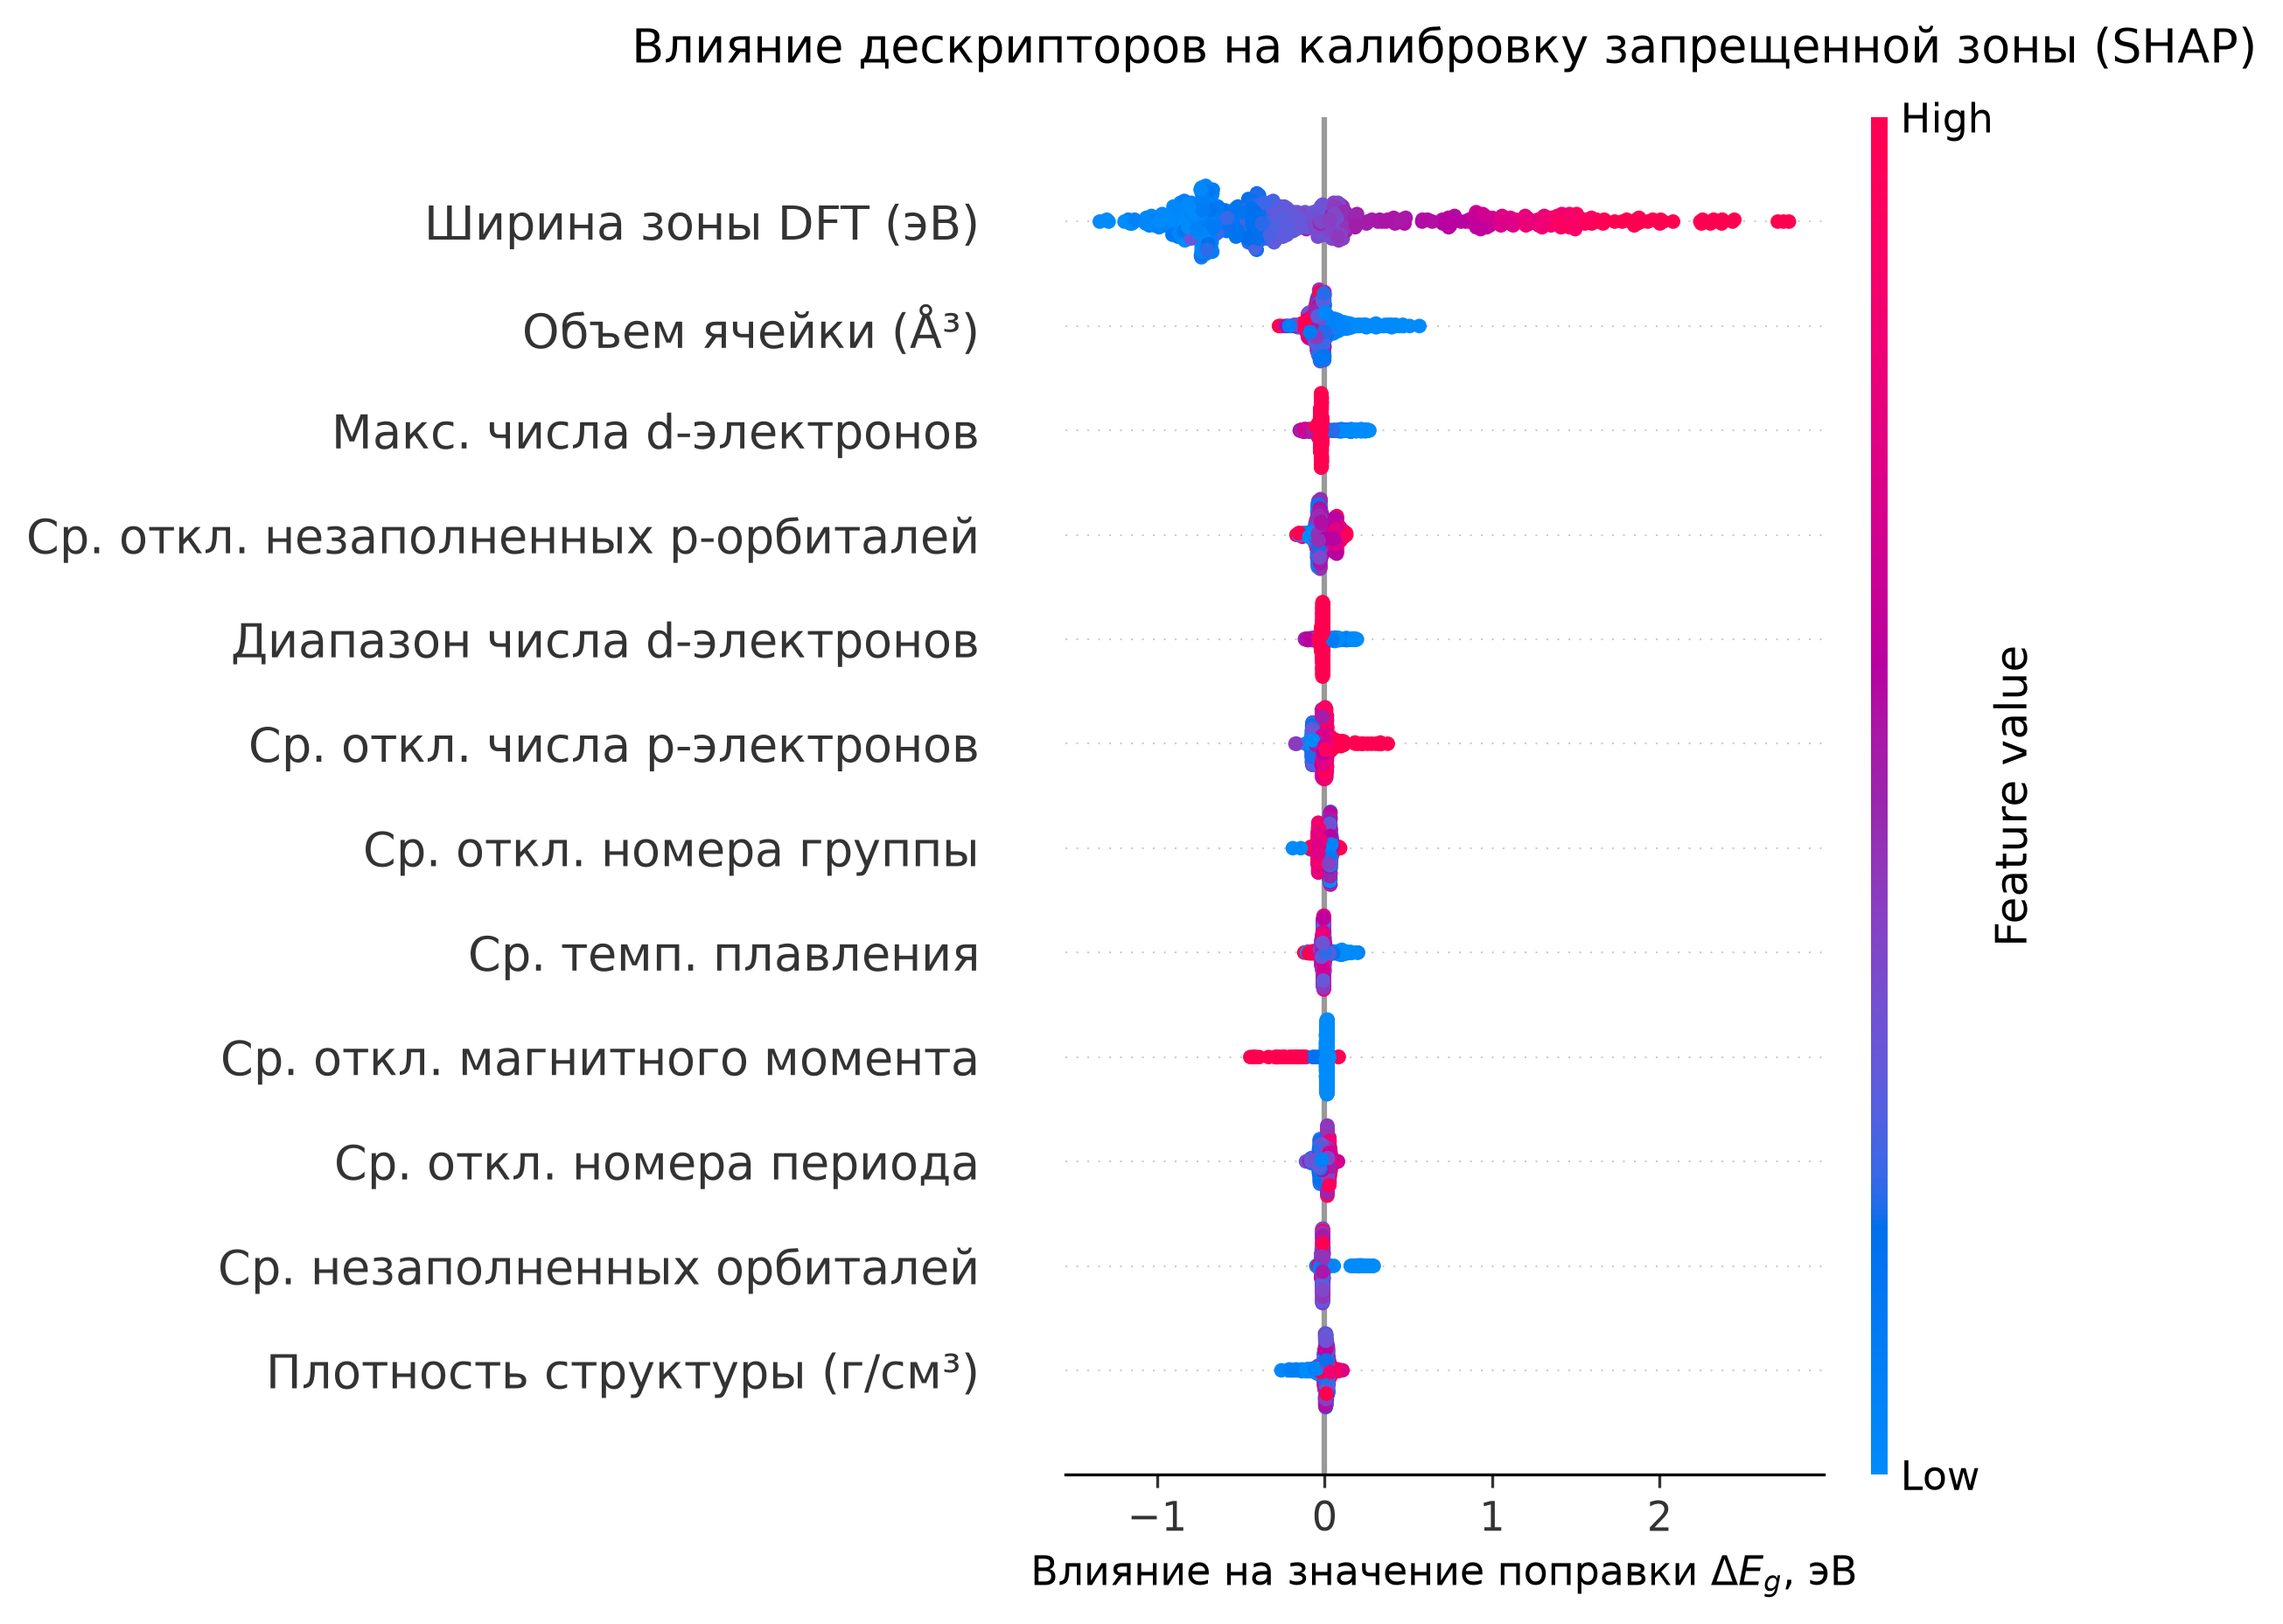
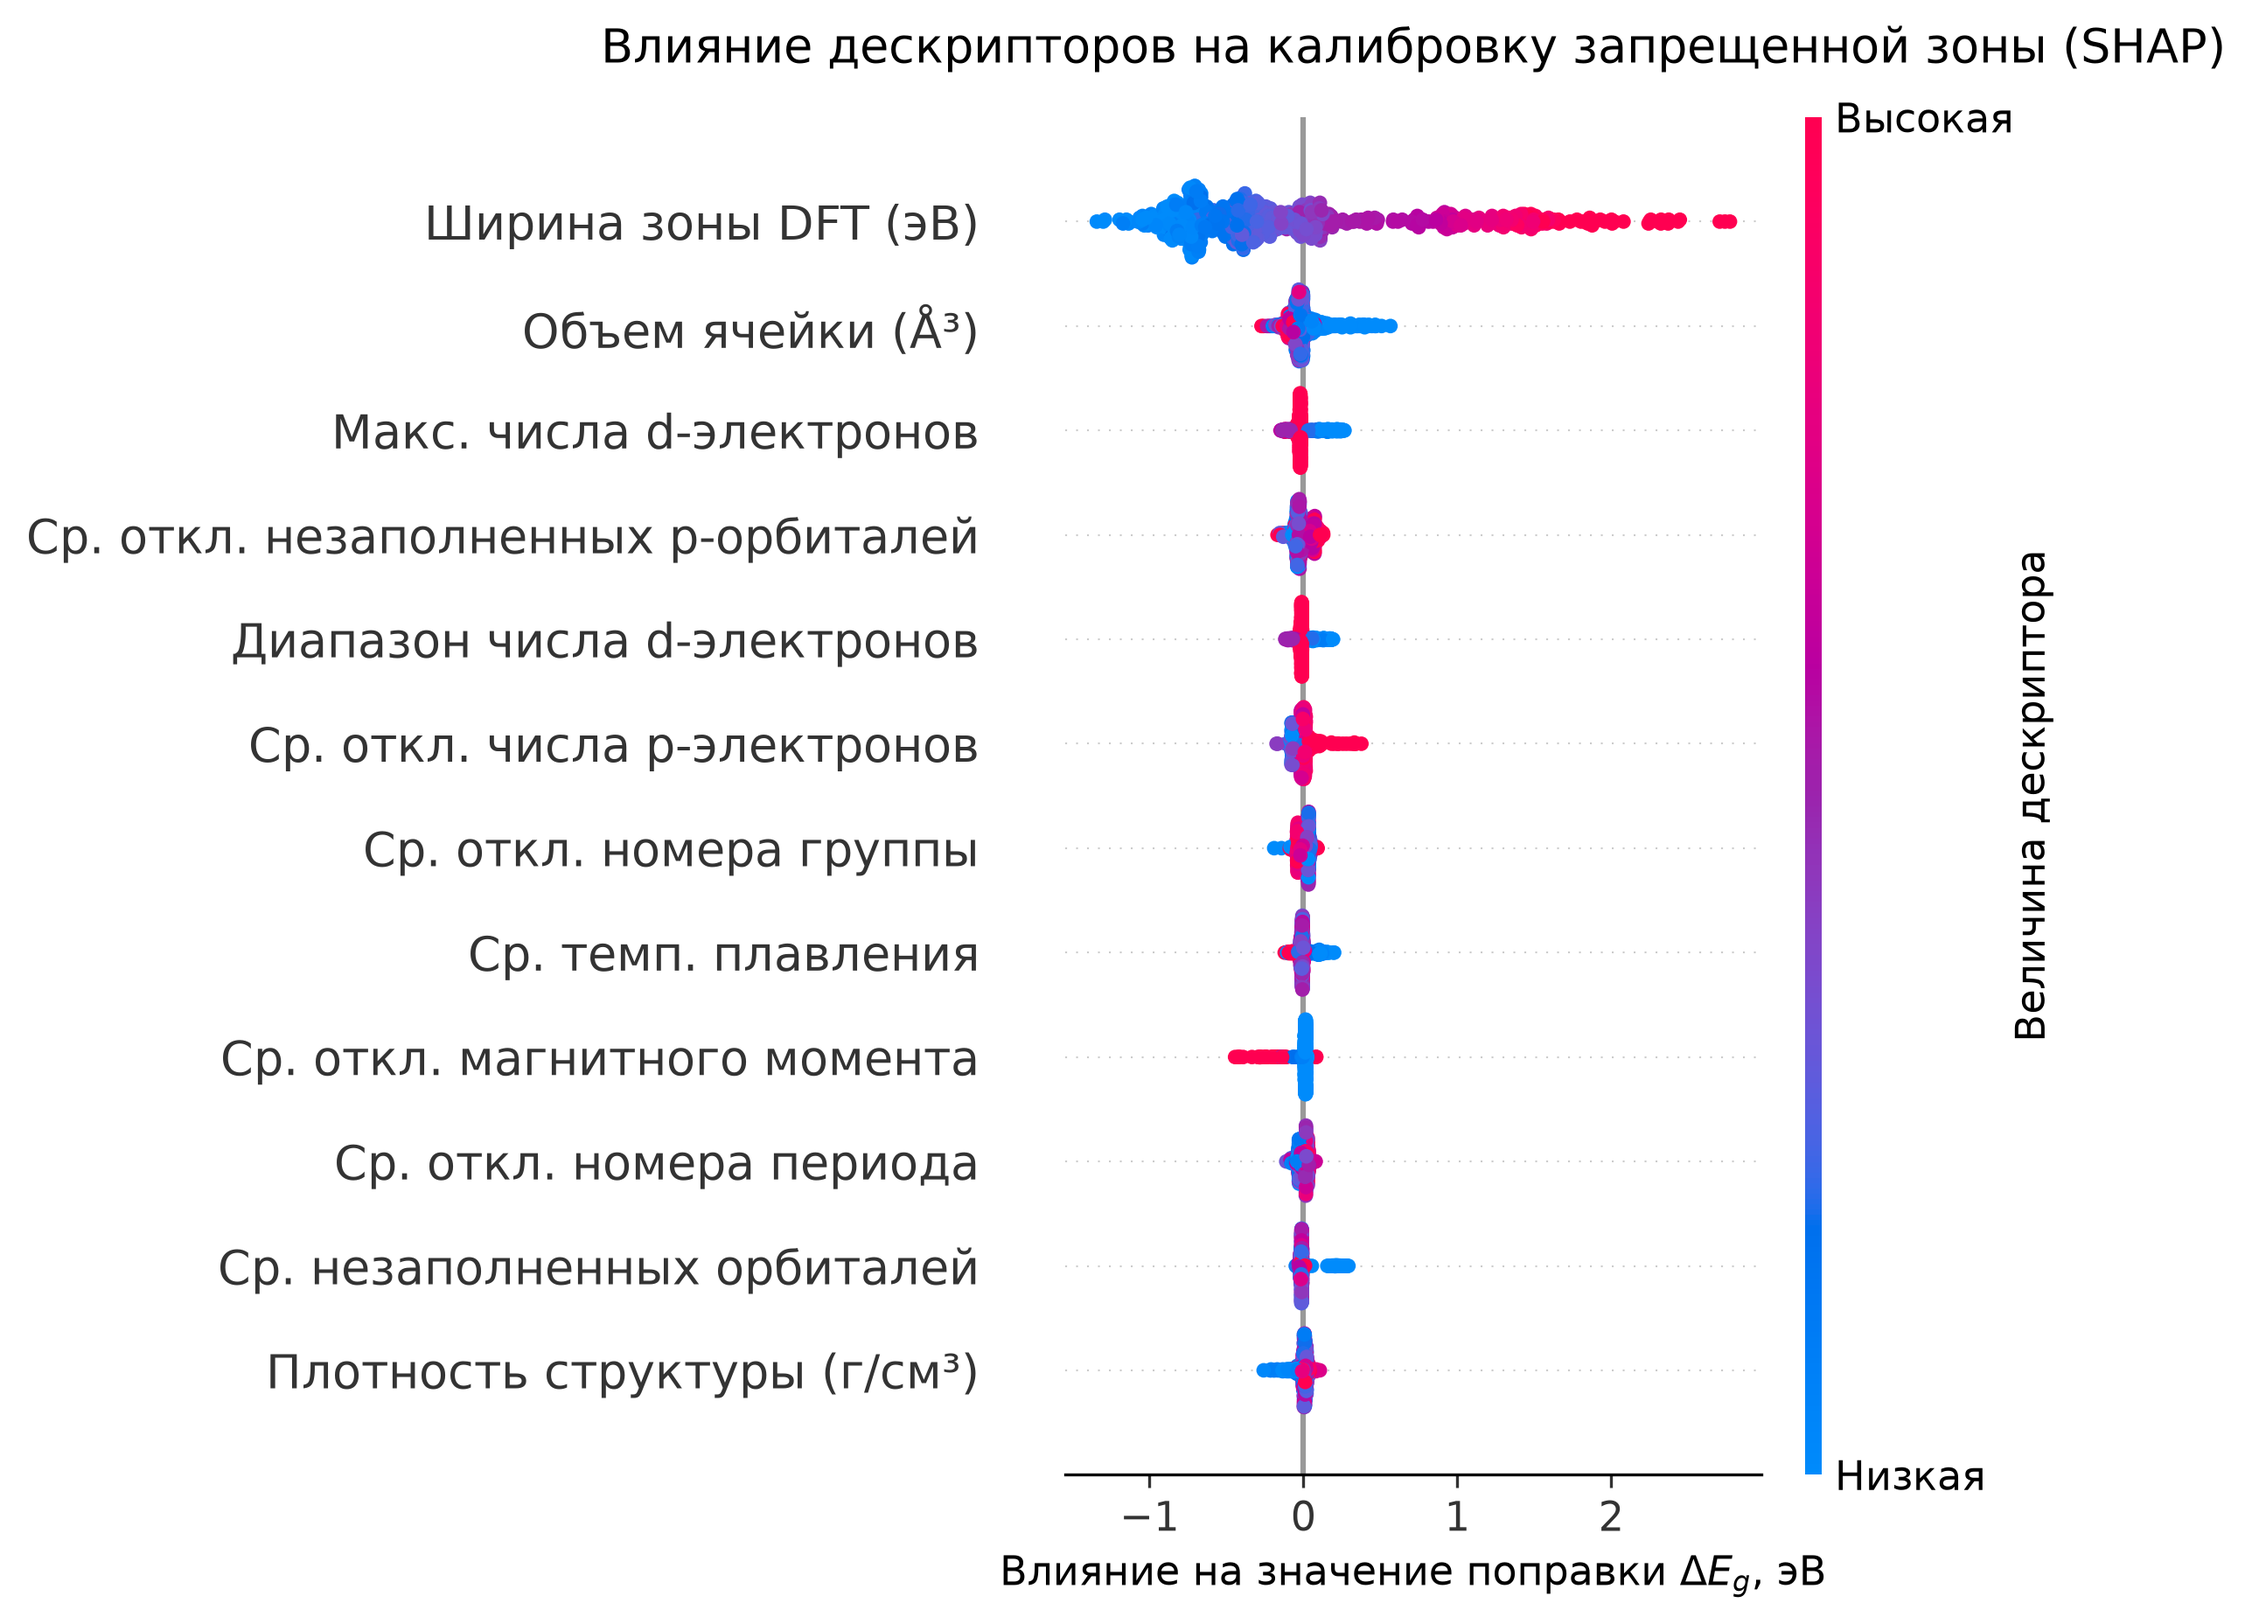
Translate 100% of text on SHAP summary image to Russian

diff --git a/src/models/explainability.py b/src/models/explainability.py
@@ -99,10 +99,8 @@ def run_explainability_analysis(
     ).drop_duplicates(subset=["clean_formula"]).reset_index(drop=True)
 
     X = train_df[all_feature_cols]
-    print(f"Анализируем влияние признаков на выборке из {len(X)} экспериментальных материалов...")
 
     # 3. Инициализация SHAP TreeExplainer для CatBoost
-    print("Вычисление значений Шепли (SHAP values)...")
     explainer = shap.TreeExplainer(model)
     shap_values = explainer.shap_values(X)
 
@@ -114,18 +112,23 @@ def run_explainability_analysis(
     os.makedirs(os.path.dirname(output_summary_path), exist_ok=True)
 
     # 4. График 1: SHAP Beeswarm Plot (Влияние величины признака на прогноз)
-    print("Построение Beeswarm-графика распределения SHAP...")
     plt.figure(figsize=(11, 7))
     shap.summary_plot(shap_values, X_ru, show=False, max_display=12)
     plt.title("Влияние дескрипторов на калибровку запрещенной зоны (SHAP)", fontsize=13, pad=15)
     plt.xlabel("Влияние на значение поправки $\\Delta E_g$, эВ", fontsize=11)
+    
+    # Русификация шкалы цветовой легенды (Colorbar)
+    fig = plt.gcf()
+    for ax in fig.axes:
+        if ax.get_ylabel() == "Feature value":
+            ax.set_ylabel("Величина дескриптора", fontsize=11)
+            ax.set_yticklabels(["Низкая", "Высокая"])
+
     plt.tight_layout()
     plt.savefig(output_summary_path, dpi=300, bbox_inches="tight")
     plt.close()
-    print(f"График сохранен в: {output_summary_path}")
 
     # 5. График 2: Bar Plot абсолютной важности
-    print("Построение графика глобальной важности признаков...")
     plt.figure(figsize=(10, 6))
     shap.summary_plot(shap_values, X_ru, plot_type="bar", show=False, max_display=12)
     plt.title("Топ-12 наиболее значимых дескрипторов", fontsize=13, pad=15)
@@ -133,7 +136,6 @@ def run_explainability_analysis(
     plt.tight_layout()
     plt.savefig(output_bar_path, dpi=300, bbox_inches="tight")
     plt.close()
-    print(f"График сохранен в: {output_bar_path}")
 
     print("Анализ объяснимости успешно завершен!")
 
